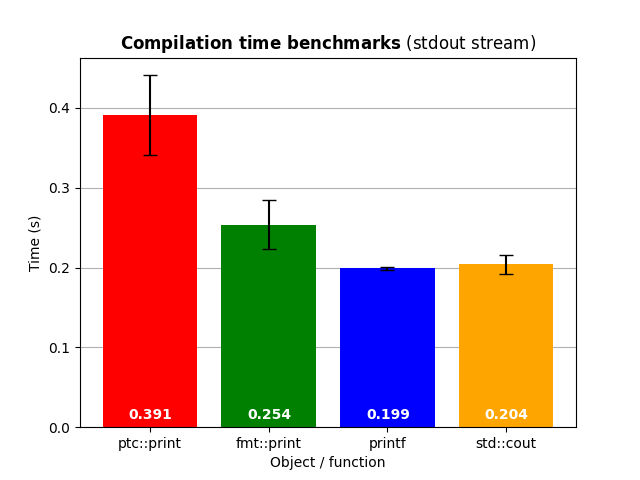
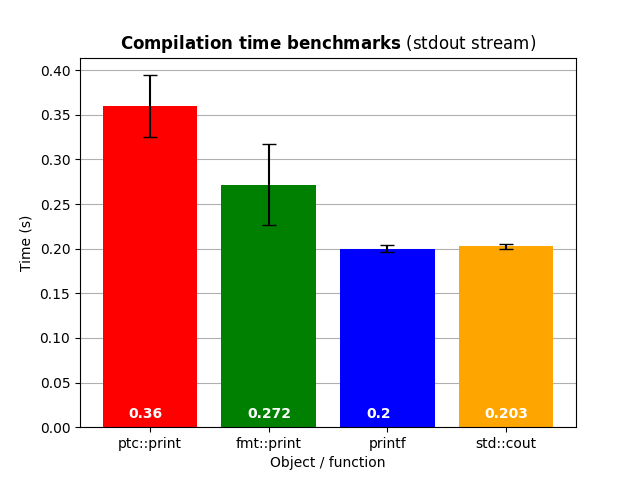
Added executable size studies.

diff --git a/studies/benchmarking_compilation/analysis.py b/studies/benchmarking_compilation/analysis.py
@@ -16,6 +16,7 @@ import numpy as np
 import pandas as pd
 import matplotlib.pyplot as plt
 import os
+from tqdm import tqdm
 
 #################################################
 #     get_time_of
@@ -44,6 +45,30 @@ def get_time_of( bash_command ):
     return elapsed_time
 
 #################################################
+#     get_size_of
+#################################################
+def get_size_of( executable ):
+    """
+    Function used to get the size of an executable.
+
+    Args:
+        executable (str): the executable file name.
+
+    Returns:
+        float: the size of the executable.
+    """
+    
+    command = "wc -c < bin/{}".format( executable )
+    output = subprocess.check_output( [ "wc", "-c", "bin/{}".format( executable ) ] )
+    if "fmt" in executable or "ptc" in executable:
+        output = str( output )[2:-11]
+    elif "printf" in executable or "stdout" in executable:
+        output = str( output )[2:-14]
+    output = int( output )
+    
+    return output
+
+#################################################
 #     get_time_of_stats
 #################################################
 def get_time_of_stats( program ):
@@ -58,15 +83,17 @@ def get_time_of_stats( program ):
     """
     
     # Extra info for compilation flags
-    additional_flags = "-O3 -O1 -falign-functions=32"
+    additional_flags = "-O3"
     ldflags = ""
     if "fmt" in program:
         ldflags = "-lfmt"
 
     # Getting time statistics
     iter_mean = np.array( [] )
+    if not os.path.exists( "bin" ):
+        os.makedirs( "bin" )
     for n in range( int( args.niter ) ):
-        get_time = get_time_of( "g++ -std=c++17 {} {} {}".format( additional_flags, program, ldflags ) )
+        get_time = get_time_of( "g++ -std=c++17 {} {} {} -o bin/{}".format( additional_flags, program, ldflags, program[9:-4] ) )
         iter_mean = np.append( iter_mean, get_time )
     mean, std = iter_mean.mean(), iter_mean.std()
     
@@ -75,14 +102,15 @@ def get_time_of_stats( program ):
 #################################################
 #     do_plot
 #################################################
-def do_plot( data_programs, data_mean, data_std ):
+def do_plot( data_programs, data, data_std, atype = "Time" ):
     """
     Function used to plot results.
 
     Args:
         data_programs (pandas.Series): container for program names.
-        data_mean (pandas.Series): container for mean values.
+        data (pandas.Series): container for mean values.
         data_std (pandas.Series): container for STD values.
+        type (str): the plot type.
     """
 
     # Variables
@@ -90,21 +118,36 @@ def do_plot( data_programs, data_mean, data_std ):
     colors = [ "red", "green", "blue", "orange", "pink", "cyan" ]
     
     # Plotting results
-    plt.bar( data_programs, data_mean, yerr = data_std, color = colors, capsize = 5 )
+    if atype == "Time":
+        plt.bar( data_programs, data, yerr = data_std, color = colors, capsize = 5 )
+    elif atype == "Size":
+        plt.bar( data_programs, data, color = colors, capsize = 5 )
     
     # Adding labels
     for i, val in enumerate( data_programs ):
-        ax.text( i - 0.18 , 0.01, round( data_mean[ i ], 3 ), color = "white", fontweight = "bold" )
+        if atype == "Time":
+            ax.text( i - 0.18 , 0.01, round( data[ i ], 3 ), color = "white", fontweight = "bold" )
+        elif atype == "Size":
+            ax.text( i - 0.1 , 4, round( data[ i ], 3 ), color = "white", fontweight = "bold" )
     ax.set_xlabel( "Object / function" )
-    ax.set_ylabel( "Time (s)" )
+    if atype == "Time":
+        ax.set_ylabel( "Time (s)" )
+    elif atype == "Size":
+        ax.set_ylabel( "Size (KiB)" )
     
     # Other plot settings
-    ax.set_title( r'''$\bf{Compilation \ time \ benchmarks}$ (stdout stream)''' )
+    if atype == "Time":
+        ax.set_title( r'''$\bf{Compilation \ time \ benchmarks}$ (stdout stream)''' )
+    elif atype == "Size":
+        ax.set_title( r'''$\bf{Executable \ size}$ (stdout stream)''' )
     ax.yaxis.grid( True )
     ax.set_axisbelow( True )
 
     # Save plots
-    path = "../../img/benchmarks/compilation_time"
+    if atype == "Time":
+        path = "../../img/benchmarks/compilation_time"
+    elif atype == "Size":
+        path = "../../img/benchmarks/executable_size"
     if not os.path.exists( path ):
         os.makedirs( path )
     plt.savefig( "{}/stdout_stream.png".format( path ) )
@@ -118,6 +161,7 @@ def main():
     data_programs = pd.Series( [], dtype = str )
     data_mean = pd.Series( [], dtype = float )
     data_std = pd.Series( [], dtype = float )
+    data_size = pd.Series( [], dtype = int )
     programs = [
         "programs/ptc.cpp",    # ptc
         "programs/fmt.cpp",    # fmt
@@ -126,7 +170,8 @@ def main():
     ]
     
     # Launching benchmarks
-    for index, program in enumerate( programs ):
+    print( "Generating data for compile time benchmarks:" )
+    for index, program in enumerate( tqdm( programs ) ):
         mean, std = get_time_of_stats( program )
         data_programs[ index ] =  program[9:-4]
         if "ptc" in program:
@@ -137,16 +182,25 @@ def main():
             data_programs[ index ] =  "std::cout"
         data_mean[ index ] =  mean
         data_std[ index ] =  std
+
+    # Computing executable size
+    print( "Generating data for executable size:" )
+    for index, program in enumerate( tqdm( programs ) ):
+        size = get_size_of( program[9:-4] )
+        data_size[ index ] = round( size / 1000 )
     
     # Dataframe settings
-    data_dict = { "Object / function": data_programs, "Compile Time (Mean) [s]": data_mean, "Compile Time (STD) [s]": data_std }
+    data_dict = { "Object / function": data_programs, "Compile Time (Mean) [s]": data_mean, "Compile Time (STD) [s]": data_std, "Executable Size [KiB]": data_size }
     data = pd.concat( data_dict, axis = 1 )
     
     # Doing plots
+    print( "Doing plots..." )
     if args.plots == "no":
         print( data.to_markdown() )
     elif args.plots == "yes":
-        do_plot( data_programs, data_mean, data_std )
+        do_plot( data_programs, data_mean, data_std, atype = "Time" )
+        do_plot( data_programs, data_size, data_std, atype = "Size" )
+    print( "Done!" )
 
 if __name__ == "__main__":
 

diff --git a/README.md b/README.md
@@ -29,6 +29,7 @@
   - [Benchmarking the execution time](#benchmarking)
   - [Benchmarking the execution time with performance improvements](#benchmarking-with-performance-improvements)
   - [Benchmarking the compilation time](#benchmarking-the-compilation-time)
+  - [Executable size](#executable-size)
   - [Advantages](#advantages)
 - [Todo](#todo)
 - [Credits](#credits)
@@ -434,6 +435,12 @@ is created and compiled with `-O3 -O1 -falign-functions=32` flags, for *100* tim
 <img src="https://github.com/JustWhit3/ptc-print/blob/main/img/benchmarks/compilation_time/stdout_stream.png">
 
 As seen from the above plot, compilation time of `ptc::print` needs to be improved.
+
+### Executable size
+
+The same script used for [compilation time benchmark studies](#benchmarking-the-compilation-time) does also executable size comparison for each of the object / function previously cited. For each of them, a small program doing the same stuff is stored into the [studies/benchmarking_compilation/programs](https://github.com/JustWhit3/ptc-print/tree/main/studies/benchmarking_compilation/programs) folder and is compiled with optimized building flag `-O3`. The size of the executable is then computed and compared in the following plot:
+
+<img src="https://github.com/JustWhit3/ptc-print/blob/main/img/benchmarks/executable_size/stdout_stream.png">
 
 ### Advantages
 

diff --git a/CONTRIBUTING.md b/CONTRIBUTING.md
@@ -24,7 +24,7 @@ cd tests
 ./all-tests.sh
 ```
 
-4) Run [benchmarks](https://github.com/JustWhit3/ptc-print#install-and-use:~:text=helgrind%20./bin/system_tests-,Comparison%20with%20other%20libraries,-Empty%20for%20the) in order to be sure performance is not lost:
+4) Run [execution benchmarks](https://github.com/JustWhit3/ptc-print#benchmarking) and [compilation benchmarks](https://github.com/JustWhit3/ptc-print#benchmarking-the-compilation-time) in order to be sure performance is not lost:
 
 ```bash
 cd studies
